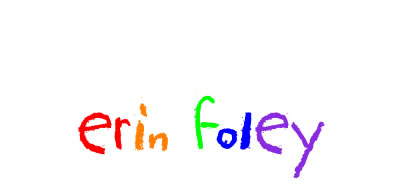
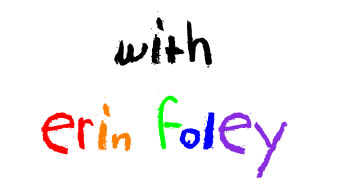
SWB 1.9
Trish - Busy

Changed region(s): [[0.4286, 0.4974, 0.8286, 0.9016], [0.1143, 0.5285, 0.4286, 0.8083], [0.3143, 0.0933, 0.6286, 0.342]]

diff --git a/archive/index - andtrish.html b/archive/index - andtrish.html
@@ -47,11 +47,15 @@
    <td><img src="images/spacer.gif" width="1" height="166" border="0" alt="" /></td>
   </tr>
   <tr>
-   <td colspan="3"><div align="center"><img name="Erin Foley" src="images/name-erin.jpg" width="350" height="193" border="0" id="Erin Foley" alt="Erin Foley" /></div></td>
+   <td><img name="Erin Foley" src="images/name-erin.jpg" width="400" height="193" border="0" id="Erin Foley" alt="Erin Foley" /></td>
+   <td><img name="with" src="images/with.jpg" width="224" height="193" border="0" id="with" alt="With" /></td>
+   <td><img name="Trish Suhr" src="images/name-trish.jpg" width="400" height="193" border="0" id="Trish Suhr" alt="Trish Suhr" /></td>
    <td><img src="images/spacer.gif" width="1" height="193" border="0" alt="" /></td>
   </tr>
   <tr>
-   <td  colspan="3" valign="top"><div align="center"><a class="twitter-timeline" data-width="800" data-height="1600" href="https://twitter.com/erinfoleycomic?ref_src=twsrc%5Etfw">Tweets by erinfoleycomic</a> <script async src="https://platform.twitter.com/widgets.js" charset="utf-8"></script></div></td>
+   <td valign="top"><a class="twitter-timeline" data-width="400" href="https://twitter.com/erinfoleycomic?ref_src=twsrc%5Etfw">Tweets by erinfoleycomic</a> <script async src="https://platform.twitter.com/widgets.js" charset="utf-8"></script></td>
+   <td>&nbsp;</td>
+   <td valign="top"><a class="twitter-timeline" data-width="400" href="https://twitter.com/TrishSuhr?ref_src=twsrc%5Etfw">Tweets by TrishSuhr</a> <script async src="https://platform.twitter.com/widgets.js" charset="utf-8"></script> </td>
    <td><img src="images/spacer.gif" width="1" height="118" border="0" alt="" /></td>
   </tr>
   <tr>
